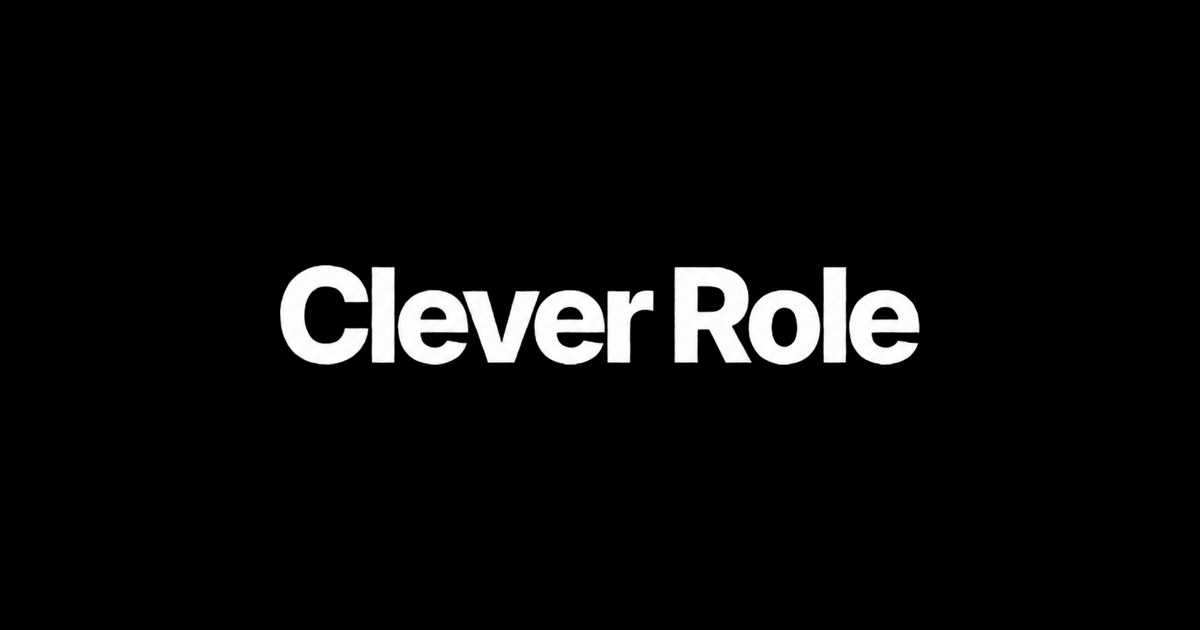
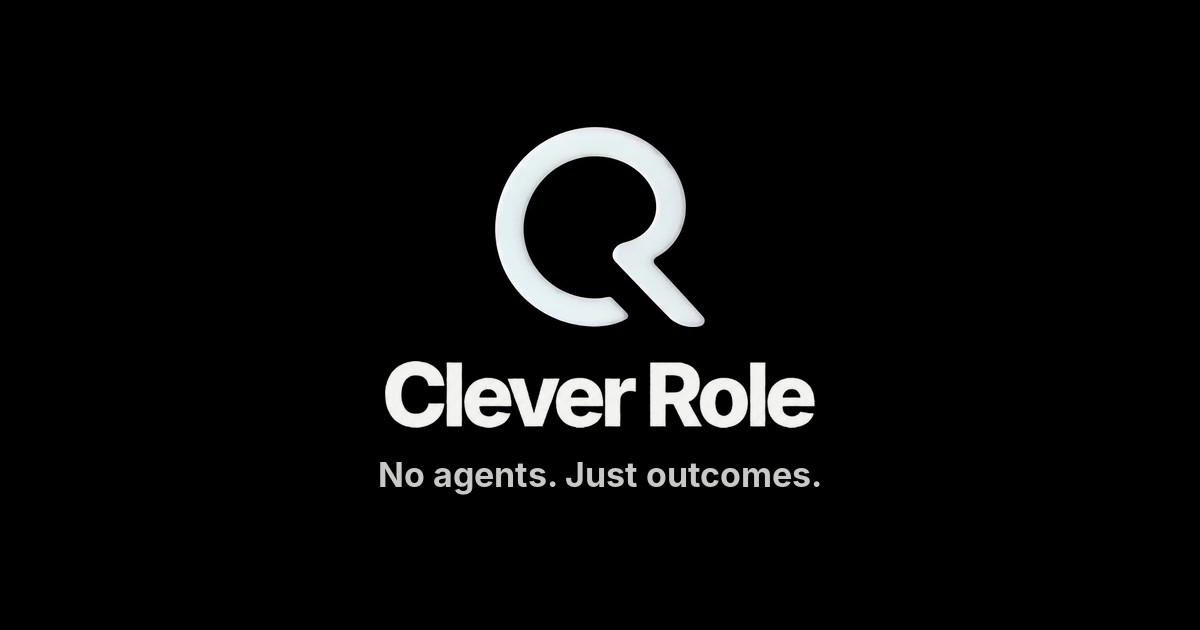
Still start, safer chat, short privacy/terms, clean link preview
- Symbol and background hold still for 2s on a fresh visit, then ease up
- Chat: topic first, polite language and private-detail checks, limits, bot trap
- Short website-only Privacy and Terms
- Title, description and new 1200x630 share image

Claude-Session: https://claude.ai/code/session_01WunY9FHpVajqV94qCjQSGL

Changed region(s): [[0.2158, 0.181, 0.7708, 0.6937], [0.3083, 0.7238, 0.6783, 0.7841]]

diff --git a/index.html b/index.html
@@ -4,12 +4,21 @@
 <meta charset="utf-8">
 <meta name="viewport" content="width=device-width, initial-scale=1, viewport-fit=cover">
 <title>Clever Role · No agents. Just outcomes.</title>
-<meta name="description" content="Clever Role Limited builds digital solutions for businesses. Coming soon.">
-<meta property="og:title" content="Clever Role">
-<meta property="og:description" content="No agents. Just outcomes. Coming soon.">
+<meta name="description" content="We build intelligent digital solutions for modern businesses. Coming soon.">
+<meta property="og:type" content="website">
+<meta property="og:site_name" content="Clever Role">
+<meta property="og:title" content="Clever Role · No agents. Just outcomes.">
+<meta property="og:description" content="We build intelligent digital solutions for modern businesses. Coming soon.">
 <meta property="og:image" content="https://cleverrole.com/og.jpg">
+<meta property="og:image:width" content="1200">
+<meta property="og:image:height" content="630">
+<meta property="og:image:alt" content="Clever Role logo with the line No agents. Just outcomes.">
 <meta property="og:url" content="https://cleverrole.com/">
 <meta name="twitter:card" content="summary_large_image">
+<meta name="twitter:title" content="Clever Role · No agents. Just outcomes.">
+<meta name="twitter:description" content="We build intelligent digital solutions for modern businesses. Coming soon.">
+<meta name="twitter:image" content="https://cleverrole.com/og.jpg">
+<link rel="apple-touch-icon" href="/og-icon.png">
 <meta name="theme-color" content="#000000">
 <link rel="canonical" href="https://cleverrole.com/">
 <link rel="icon" href="/favicon.ico">
@@ -102,6 +111,11 @@ footer a:hover,footer button:hover{color:var(--fg)}
 .chat-send:not(:disabled):hover{transform:scale(1.06)}
 .chat-foot{font-size:11px;color:var(--muted);text-align:center;padding:0 12px 10px}
 .chat-foot a{color:var(--muted)}
+.chips{display:flex;flex-wrap:wrap;gap:8px;align-self:flex-end;justify-content:flex-end;max-width:92%;animation:rise .3s ease}
+.chip{font:inherit;font-size:13.5px;font-weight:600;color:var(--fg);background:transparent;border:1px solid var(--line);border-radius:99px;padding:8px 14px;cursor:pointer;transition:background .2s,color .2s,border-color .2s}
+.chip:hover,.chip:focus-visible{background:var(--fg);color:var(--bg);border-color:var(--fg);outline:0}
+.chat-count{font-size:11px;color:var(--muted);text-align:right;padding:0 16px 4px}
+.chat-count.over{color:#e5484d}
 .hp{position:absolute;left:-9999px;width:1px;height:1px;opacity:0}
 @media (max-width:520px){.chat{right:0;left:0;bottom:0;width:100%;height:min(78dvh,560px);border-radius:22px 22px 0 0;border-bottom:0;padding-bottom:env(safe-area-inset-bottom,0px)}}
 @media (max-width:520px){.preview{position:fixed;z-index:2;left:max(16px,env(safe-area-inset-left,0px));top:calc(26px + env(safe-area-inset-top,0px));font-size:10px;font-weight:600;letter-spacing:.12em;text-transform:uppercase;color:var(--muted);border:1px dashed var(--line);border-radius:99px;padding:5px 10px}
@@ -139,7 +153,7 @@ footer a:hover,footer button:hover{color:var(--fg)}
 <section class="chat" id="chat" hidden role="dialog" aria-label="Chat with Clever Role">
   <div class="chat-head">
[1 lines of base64/hex data omitted]
-    <div class="chat-who"><b>Clever Role</b><span><i></i>We usually reply within a day</span></div>
+    <div class="chat-who"><b>Clever Role</b><span><i></i>A real person replies by email</span></div>
     <button class="close" type="button" id="closeChat" aria-label="Close chat">×</button>
   </div>
   <div class="chat-log" id="chatLog" aria-live="polite"></div>
@@ -148,7 +162,8 @@ footer a:hover,footer button:hover{color:var(--fg)}
     <textarea id="chatInput" rows="1" placeholder="Type your message" aria-label="Your message"></textarea>
     <button class="chat-send" id="chatSend" type="submit" aria-label="Send" disabled><svg width="16" height="16" viewBox="0 0 24 24" fill="none" stroke="currentColor" stroke-width="2.2" stroke-linecap="round" stroke-linejoin="round" aria-hidden="true"><path d="M12 19V5M5 12l7-7 7 7"/></svg></button>
   </form>
-  <div class="chat-foot">Or email <a href="mailto:hello@cleverrole.com">hello@cleverrole.com</a> · <a href="/privacy">Privacy</a></div>
+  <div class="chat-count" id="chatCount" hidden>0 / 1000</div>
+  <div class="chat-foot">Please don’t share passwords or card details. Or email <a href="mailto:hello@cleverrole.com">hello@cleverrole.com</a> · <a href="/privacy">Privacy</a></div>
 </section>
 
 <script>
@@ -166,39 +181,82 @@ footer a:hover,footer button:hover{color:var(--fg)}
   });
 
 
-  /* Chat: a short conversation collects the message, name and email, then sends it to hello@ without leaving the page. */
+  /* Chat: a short, polite conversation. No AI and no cost: the message goes to hello@ and a person replies by email.
+     Guard rails run in the browser: topic first, a length limit, a polite word check, no card numbers or passwords,
+     a hidden bot trap, one message per visit and three per day. */
   var SEND_URL='', SEND_KEY='';  /* set at go-live (form delivery service); empty = preview, nothing is sent */
+  var MAXLEN=1000, PER_DAY=3;
   var chat=document.getElementById('chat'), log=document.getElementById('chatLog'), cf=document.getElementById('chatForm'),
-      inp=document.getElementById('chatInput'), sendBtn=document.getElementById('chatSend'), step=0, started=false, data={};
-  function bubble(t,who){var d=document.createElement('div');d.className='b '+who;d.textContent=t;log.appendChild(d);log.scrollTop=log.scrollHeight;}
+      inp=document.getElementById('chatInput'), sendBtn=document.getElementById('chatSend'), count=document.getElementById('chatCount'),
+      step=-1, started=false, sent=false, openedAt=0, data={};
+  function bubble(t,who){var d=document.createElement('div');d.className='b '+who;d.textContent=t;log.appendChild(d);log.scrollTop=log.scrollHeight;return d;}
   function say(t,cb){var ty=document.createElement('div');ty.className='typing';ty.innerHTML='<i></i><i></i><i></i>';log.appendChild(ty);log.scrollTop=log.scrollHeight;
     setTimeout(function(){ty.remove();bubble(t,'us');if(cb)cb();},650+Math.min(900,t.length*12));}
   function ask(ph,type){inp.placeholder=ph;inp.setAttribute('inputmode',type==='email'?'email':'text');inp.disabled=false;inp.focus();}
-  function open(){chat.hidden=false;if(!started){started=true;say('Hi, thanks for stopping by.',function(){say('What would you like to tell us?',function(){ask('Type your message');});});}else inp.focus();}
+  function lock(ph){inp.disabled=true;sendBtn.disabled=true;inp.placeholder=ph;}
+  function today(){return new Date().toISOString().slice(0,10);}
+  function sentToday(){try{var s=JSON.parse(localStorage.getItem('cr-chat')||'{}');return s.d===today()?s.n:0;}catch(e){return 0;}}
+  function markSent(){try{localStorage.setItem('cr-chat',JSON.stringify({d:today(),n:sentToday()+1}));}catch(e){}}
+  var TOPICS=['Pricing','Partnership','Media','Something else'];
+  function chips(){var w=document.createElement('div');w.className='chips';
+    TOPICS.forEach(function(t){var b=document.createElement('button');b.type='button';b.className='chip';b.textContent=t;
+      b.addEventListener('click',function(){if(step!==0)return;w.remove();bubble(t,'them');data.topic=t;step=1;
+        say('Thanks. Tell us a little about what you need. Please don’t include passwords, card numbers or other private details.',function(){ask('Type your message');count.hidden=false;});});
+      w.appendChild(b);});
+    log.appendChild(w);log.scrollTop=log.scrollHeight;}
+  function open(){chat.hidden=false;if(started){if(!inp.disabled)inp.focus();return;}
+    started=true;openedAt=Date.now();lock('Choose a topic above');
+    if(sentToday()>=PER_DAY){say('Thanks for getting in touch again. You’ve already sent us a few messages today, so we’ll reply to those by email soon.',function(){lock('Message limit reached for today');});return;}
+    say('Hi, thanks for stopping by.',function(){
+      say('Messages here go straight to our team, and a real person replies by email, usually within a day. There’s no AI and no cost to you.',function(){
+        say('What’s it about?',function(){step=0;chips();});});});}
   function close(){chat.hidden=true;}
   document.getElementById('openForm').addEventListener('click',open);
   document.getElementById('closeChat').addEventListener('click',close);
   document.addEventListener('keydown',function(e){if(e.key==='Escape'&&!chat.hidden)close();});
-  inp.addEventListener('input',function(){sendBtn.disabled=!inp.value.trim();inp.style.height='auto';inp.style.height=Math.min(120,inp.scrollHeight)+'px';});
+  inp.addEventListener('input',function(){var n=inp.value.length;sendBtn.disabled=!inp.value.trim()||(step===1&&n>MAXLEN);
+    count.textContent=n+' / '+MAXLEN;count.classList.toggle('over',n>MAXLEN);
+    inp.style.height='auto';inp.style.height=Math.min(120,inp.scrollHeight)+'px';});
   inp.addEventListener('keydown',function(e){if(e.key==='Enter'&&!e.shiftKey){e.preventDefault();if(!sendBtn.disabled)cf.requestSubmit?cf.requestSubmit():cf.dispatchEvent(new Event('submit',{cancelable:true}));}});
+
+  // Polite-language check: common swear words, including simple disguises like f*ck or sh1t.
+  var RUDE=/\b(f+u+c+k+\w*|f+[\W_]*c+k+\w*|sh+i+t+\w*|bull?sh\w*|c+u+n+t+\w*|bastard\w*|bitch\w*|dick(head)?s?|cock(sucker)?s?|pricks?|wank\w*|twats?|arse(hole)?s?|ass(hole)?s?|motherf\w*|piss(ed)?|slut\w*|whores?|retard\w*|nigg\w*|fag+\w*|kys)\b/i;
+  function clean(t){return t.toLowerCase().replace(/[@4]/g,'a').replace(/[1!|]/g,'i').replace(/0/g,'o').replace(/3/g,'e').replace(/\$|5/g,'s').replace(/\*/g,'u');}
+  function rude(t){return RUDE.test(t)||RUDE.test(clean(t));}
+  // Card numbers (13 to 19 digits that pass the card check) and anything labelled as a password or PIN.
+  function hasCard(t){var m=t.match(/(?:\d[ -]?){13,19}/g)||[];return m.some(function(s){var d=s.replace(/\D/g,''),sum=0,alt=false;
+    if(d.length<13||d.length>19)return false;for(var i=d.length-1;i>=0;i--){var n=+d[i];if(alt){n*=2;if(n>9)n-=9;}sum+=n;alt=!alt;}return sum%10===0;});}
+  function hasSecret(t){return /\b(password|passwd|pwd|passcode|pin|cvv|cvc|security code)\b\s*(is|:|=|-)?\s*\S{3,}/i.test(t)||/\b(iban|bsb|account number|routing number|social security|ssn)\b/i.test(t);}
+  function gibberish(t){var letters=(t.match(/[a-z]/gi)||[]).length, words=t.trim().split(/\s+/).length;
+    return letters<10||words<3||/(.)\1{6,}/.test(t)||/https?:\/\/\S+.*https?:\/\/\S+.*https?:\/\//i.test(t);}
+  function retry(v,msg,ph){inp.value=v;inp.dispatchEvent(new Event('input'));say(msg,function(){ask(ph);});}
+
   function deliver(){
-    if(document.getElementById('hpField').value)return Promise.resolve(true);
-    if(!SEND_URL){location.href='mailto:hello@cleverrole.com?subject='+encodeURIComponent('Hello from '+data.name)+'&body='+encodeURIComponent(data.message+'\n\n'+data.name+' <'+data.email+'>');return Promise.resolve('mail');}
+    if(document.getElementById('hpField').value||Date.now()-openedAt<4000)return Promise.resolve(true);  // bot trap: hidden field filled, or far too fast for a person
+    if(!SEND_URL){location.href='mailto:hello@cleverrole.com?subject='+encodeURIComponent(data.topic+' from '+data.name)+'&body='+encodeURIComponent(data.message+'\n\n'+data.name+' <'+data.email+'>');return Promise.resolve('mail');}
     return fetch(SEND_URL,{method:'POST',headers:{'Content-Type':'application/json',Accept:'application/json'},
-      body:JSON.stringify({access_key:SEND_KEY,subject:'New message from cleverrole.com: '+data.name,from_name:'cleverrole.com',name:data.name,email:data.email,replyto:data.email,message:data.message})})
+      body:JSON.stringify({access_key:SEND_KEY,subject:'cleverrole.com: '+data.topic+' from '+data.name,from_name:'cleverrole.com',name:data.name,email:data.email,replyto:data.email,topic:data.topic,message:data.message})})
       .then(function(r){return r.ok;}).catch(function(){return false;});
   }
   cf.addEventListener('submit',function(e){
-    e.preventDefault(); var v=inp.value.trim(); if(!v)return;
-    if(step===2&&!/^[^@\s]+@[^@\s]+\.[^@\s]+$/.test(v)){bubble(v,'them');inp.value='';sendBtn.disabled=true;say('That email doesn’t look quite right. Could you check it?',function(){ask('you@company.com','email');});return;}
-    bubble(v,'them');inp.value='';inp.style.height='auto';sendBtn.disabled=true;inp.disabled=true;
-    if(step===0){data.message=v;step=1;say('Thanks. Who are we talking to?',function(){ask('Your name');});}
-    else if(step===1){data.name=v;step=2;say('Nice to meet you, '+v.split(' ')[0]+'. What’s the best email to reply to?',function(){ask('you@company.com','email');});}
-    else if(step===2){data.email=v;step=3;say('Sending your message…',function(){deliver().then(function(ok){
-      if(ok==='mail'){say('Your email app should now open with your message ready to send. If it doesn\u2019t, email us at hello@cleverrole.com.');}
-      else if(ok){say(SEND_URL?'Done. Your message is with us and we’ll reply to '+data.email+' soon.':'Done.',function(){inp.placeholder='Message sent';});}
-      else{say('Sorry, that didn’t go through. Please email us at hello@cleverrole.com.');}
-    });});}
+    e.preventDefault(); var v=inp.value.trim(); if(!v||sent||step<1)return;
+    inp.value='';inp.style.height='auto';sendBtn.disabled=true;inp.disabled=true;
+    if(rude(v)){retry(v,'We’d love to help, but please keep it friendly. Could you reword your message without the strong language?','Reword your message');return;}
+    if(hasCard(v)||hasSecret(v)){retry(v,'For your safety, please don’t share card numbers, passwords or other private details here. Could you remove that part and send it again?','Remove the private details');return;}
+    if(step===1){
+      if(v.length>MAXLEN){retry(v,'That’s a little long for a first message. Could you keep it under '+MAXLEN+' characters? We can go into detail by email.','Shorten your message');return;}
+      if(gibberish(v)){retry(v,'Could you add a little more detail about what you’re looking for? It helps us send the right reply.','Add a bit more detail');return;}
+      bubble(v,'them');data.message=v;step=2;count.hidden=true;say('Thanks. Who are we talking to?',function(){ask('Your name');});}
+    else if(step===2){
+      if(v.length>80||!/[a-z]/i.test(v)){retry(v,'Could you just give us your name, please?','Your name');return;}
+      bubble(v,'them');data.name=v;step=3;say('Nice to meet you, '+v.split(' ')[0]+'. What’s the best email to reply to?',function(){ask('you@company.com','email');});}
+    else if(step===3){
+      if(v.length>120||!/^[^@\s]+@[^@\s]+\.[^@\s]{2,}$/.test(v)){retry(v,'That email doesn’t look quite right. Could you check it?','you@company.com');return;}
+      bubble(v,'them');data.email=v;step=4;sent=true;say('Sending your message…',function(){deliver().then(function(ok){
+        if(ok==='mail'){markSent();say('Your email app should now open with your message ready to send. If it doesn\u2019t, email us at hello@cleverrole.com.',function(){lock('Message ready in your email app');});}
+      else if(ok){markSent();say(SEND_URL?'Done. Your message is with us and we’ll reply to '+data.email+' soon.':'Done.',function(){lock('Message sent');});}
+        else{sent=false;say('Sorry, that didn’t go through. Please email us at hello@cleverrole.com.');}
+      });});}
   });
 })();
 
@@ -328,7 +386,7 @@ footer a:hover,footer button:hover{color:var(--fg)}
   document.addEventListener('visibilitychange',function(){run=!document.hidden;prev=performance.now();if(run)requestAnimationFrame(frame);});
   function frame(now){
     if(!run)return;
-    var dt=Math.min(0.05,(now-prev)/1000);prev=now; mx+=(tx-mx)*0.04; my+=(ty-my)*0.04;
+    var dt=Math.min(0.05,(now-prev)/1000)*(window.crWake==null?1:window.crWake);prev=now; mx+=(tx-mx)*0.04; my+=(ty-my)*0.04;
     var spin=window.crSpin||1;              // 1 = normal pace; bigger when the symbol is flicked; negative = reversed
     T+=dt*(still?0:1);
     x.clearRect(0,0,W,H);
@@ -356,25 +414,27 @@ footer a:hover,footer button:hover{color:var(--fg)}
     ox.putImageData(d,0,0);return o;}catch(e){return im;}}
   for(var s=0;s<4;s++){(function(s){var im=new Image();im.onload=function(){sheets[s]=solid(im);ready[s]=true;};im.src='spin'+s+'.jpg';sheets[s]=im;})(s);}
   var still=window.matchMedia&&matchMedia('(prefers-reduced-motion: reduce)').matches;
-  var pos=0, vel=still?0:BASE, dir=1, drag=false, lastX=0, lastT=0, dragV=0, prev=performance.now(), run=true, drawn=-1;
+  var HOLD=2000, hold=performance.now()+HOLD, wake=still?1:0;  // a fresh visit starts still, then eases up to the normal pace
+  var pos=0, vel=0, dir=1, drag=false, lastX=0, lastT=0, dragV=0, prev=performance.now(), run=true, drawn=-1;
   function fit(){var d=Math.min(window.devicePixelRatio||1,2), w=Math.round(c.clientWidth*d)||CELL; if(c.width!==w){c.width=c.height=w;drawn=-1;}}
   addEventListener('resize',fit);
   function pxToFrames(){return N/((c.clientWidth||300)*1.4);}
-  c.addEventListener('pointerdown',function(e){var hn=document.getElementById('spinHint');if(hn)hn.classList.add('used');drag=true;c.classList.add('drag');lastX=e.clientX;lastT=e.timeStamp;dragV=0;try{c.setPointerCapture(e.pointerId);}catch(_){}});
+  c.addEventListener('pointerdown',function(e){var hn=document.getElementById('spinHint');if(hn)hn.classList.add('used');drag=true;hold=0;wake=1;c.classList.add('drag');lastX=e.clientX;lastT=e.timeStamp;dragV=0;try{c.setPointerCapture(e.pointerId);}catch(_){}});
   c.addEventListener('pointermove',function(e){if(!drag)return;var dx=e.clientX-lastX, dt=Math.max(1,e.timeStamp-lastT)/1000;
     var df=dx*pxToFrames(); pos+=df; dragV=dragV*0.6+(df/dt)*0.4; lastX=e.clientX;lastT=e.timeStamp;});
   function end(){if(!drag)return;drag=false;c.classList.remove('drag');
     vel=Math.max(-720,Math.min(720,dragV)); if(Math.abs(vel)>BASE*0.25)dir=vel>0?1:-1;}
   c.addEventListener('pointerup',end);c.addEventListener('pointercancel',end);c.addEventListener('lostpointercapture',end);
   document.addEventListener('visibilitychange',function(){run=!document.hidden;prev=performance.now();if(run)requestAnimationFrame(tick);});
-  // Every fresh visit (including coming back with the browser's Back button) starts at the normal pace, in the normal direction.
-  addEventListener('pageshow',function(e){if(e.persisted){dir=1;vel=still?0:BASE;drag=false;dragV=0;window.crSpin=1;}});
+  // Every fresh visit (including coming back with the browser's Back button) starts still for 2 seconds, then eases up to the normal pace, in the normal direction.
+  addEventListener('pageshow',function(e){if(e.persisted){dir=1;vel=0;hold=performance.now()+HOLD;wake=still?1:0;drag=false;dragV=0;window.crSpin=0;window.crWake=wake;}});
   function tick(now){
     if(!run)return;
     var dt=Math.min(0.05,(now-prev)/1000); prev=now;
-    if(!drag){var target=still?0:dir*BASE; vel+=(target-vel)*(1-Math.exp(-dt/0.8)); pos+=vel*dt;}
+    if(!drag){var target=(still||now<hold)?0:dir*BASE; vel+=(target-vel)*(1-Math.exp(-dt/0.8)); pos+=vel*dt;}
     else if(now-lastT>80){dragV*=0.8;}
-    window.crSpin=(drag?dragV:vel)/BASE;
+    if(!drag&&now>=hold)wake=Math.max(wake,Math.min(1,Math.abs(vel)/BASE*1.05));
+    window.crSpin=(drag?dragV:vel)/BASE; window.crWake=wake;
     var f=((Math.round(pos)%N)+N)%N, s=Math.floor(f/PER);
     if(!ready[s]){for(var k=0;k<4;k++)if(ready[k]){s=k;f=k*PER;break;}}
     if(ready[s]&&f!==drawn){fit();var i=f-s*PER;x.clearRect(0,0,c.width,c.height);

diff --git a/privacy/index.html b/privacy/index.html
@@ -4,7 +4,7 @@
 <meta charset="utf-8">
 <meta name="viewport" content="width=device-width, initial-scale=1, viewport-fit=cover">
 <title>Privacy Policy · Clever Role</title>
-<meta name="description" content="Privacy Policy for Clever Role Limited.">
+<meta name="description" content="Privacy Policy for the Clever Role Limited website.">
 <link rel="icon" href="/favicon.ico">
 <style>
 @font-face{font-family:'Inter Variable';font-style:normal;font-display:swap;font-weight:100 900;src:url(/inter.woff2) format('woff2-variations')}
@@ -35,19 +35,14 @@ footer a{color:var(--muted);text-decoration:none} footer a:hover{color:var(--fg)
 <header><a href="/" aria-label="Clever Role home"><img src="/wordmark.png" alt="Clever Role"></a><button class="theme" id="themeToggle" type="button" aria-label="Switch theme"><span></span></button></header>
 <p class="eyebrow">Legal</p>
 <h1>Privacy Policy</h1>
-<p class="dates">Last updated: 18 October 2026 · Effective: 1 January 2026</p>
-<p class="intro">Clever Role Limited (&quot;Clever Role&quot;, &quot;we&quot;, &quot;us&quot; or &quot;our&quot;) is committed to protecting your personal information. This Privacy Policy explains what data we collect, how we use it, and what rights you have.</p>
-<section><h2>1. Information we collect</h2><p>We collect information you provide directly (such as name, email address and billing details when you create an account or make a purchase), information generated by your use of our services (such as usage logs, Role activity records and API call metadata), and technical information (such as browser type, IP address and device identifiers). We do not sell your personal data.</p></section>
-<section><h2>2. How we use your information</h2><p>We use your information to provide and improve the Clever Role platform, process payments, send service communications, maintain security and compliance, and generate anonymised analytics to improve our products. We do not use your data to train third-party AI models without your explicit consent.</p></section>
-<section><h2>3. Data sharing</h2><p>We share data with trusted third-party service providers (including AWS for hosting, Stripe for payment processing, Anthropic for AI model access, Postmark for service emails, and Google or Microsoft when a customer connects their own account) under strict data processing agreements. We do not sell or rent personal data to marketers or data brokers. We may disclose data where required by law.</p></section>
-<section><h2>4. Data retention</h2><p>We retain your account data for as long as your account is active and for a period afterwards as required by law or legitimate business purposes. Role activity logs are retained for 90 days by default. You may request deletion of your data at any time by contacting us.</p></section>
-<section><h2>5. Security</h2><p>We use industry-standard security measures including TLS encryption in transit, AES-256 encryption at rest, access controls, and regular security reviews. Sensitive credentials (API keys, OAuth tokens) are stored encrypted and are never logged in plaintext. See our Security page for more detail.</p></section>
-<section><h2>6. Your rights</h2><p>Depending on your location, you may have rights to access, correct, delete, or export your personal data, and to object to or restrict certain processing. To exercise these rights, contact us at privacy@cleverrole.com. We will respond within 30 days.</p></section>
-<section><h2>7. Cookies</h2><p>We use essential cookies required for the platform to function (authentication, session management) and optional analytics cookies to understand how our services are used. You can manage cookie preferences in your browser settings. We do not use advertising cookies.</p></section>
-<section><h2>8. Changes to this policy</h2><p>We may update this Privacy Policy from time to time. When we do, we will revise the date at the top of this page and, for material changes, notify you via email or an in-app notice. Your continued use of Clever Role after changes constitutes acceptance of the updated policy.</p></section>
-<section><h2>9. Google Workspace integration</h2><p>Clever Role offers an optional Google Workspace connection so that a customer&#x27;s Roles can work in the customer&#x27;s own Google account. Access is granted only through Google&#x27;s own consent screen, applies only to the account the customer connects, and can be revoked at any time. Clever Role requests these Google permissions: Gmail read access, so Roles such as Business Monitor, Support Desk and Customer Care can read and summarise incoming email; Gmail draft access, so reply drafts can be prepared for the customer to review; Gmail send access, so emails the customer has approved (or set to send automatically) go out from the customer&#x27;s own address; Google Calendar event access, so Meeting Booking can create, move and cancel meetings and avoid double-booking; and access only to Google Drive files that Clever Role itself creates, such as saved reports. Clever Role&#x27;s use and transfer of information received from Google APIs adheres to the Google API Services User Data Policy (policies.google.com/terms/api-services-user-data-policy), including the Limited Use requirements. We use Google user data only to provide the features the customer has enabled. We do not sell it, use it for advertising, or transfer it to others except as needed to provide those features, to comply with law, or with the customer&#x27;s consent. Humans at Clever Role do not read it unless the customer asks us to for support, it is needed for security or legal reasons, or it has been aggregated and anonymised. Clever Role does not use Google Workspace data to develop, improve or train generalised AI or machine-learning models. OAuth tokens are stored encrypted and are never given to AI models. Customers can disconnect Google at any time from the Connections page; disconnecting revokes our access with Google and deletes the stored tokens. To ask us to delete any other stored Google data, contact privacy@cleverrole.com.</p></section>
-<section><h2>10. Microsoft 365 integration</h2><p>Clever Role offers an optional Microsoft 365 connection on the same terms. Access is granted only through Microsoft&#x27;s own consent screen and applies only to the account the customer connects. Clever Role requests these Microsoft permissions: read and draft email (Mail.ReadWrite), so Roles can read and summarise incoming email and prepare reply drafts; send email (Mail.Send), so approved emails go out from the customer&#x27;s own address; calendar access (Calendars.ReadWrite) for Meeting Booking; access to the customer&#x27;s own OneDrive files (Files.ReadWrite) for saved reports; and basic profile and offline access so the connection shows the right account and stays connected. We use Microsoft data only to provide the features the customer has enabled, never sell it or use it for advertising, and do not use it to train generalised AI models. Customers can disconnect Microsoft 365 at any time from the Connections page, which deletes the stored tokens; they can also remove Clever Role from their Microsoft account&#x27;s app permissions.</p></section>
-<section><h2>11. Contact</h2><p>For privacy-related questions or requests, contact us at privacy@cleverrole.com or write to us at our registered address. For urgent security concerns, see our Security page.</p></section>
+<p class="dates">Last updated: 18 October 2026</p>
+<p class="intro">This website is run by Clever Role Limited, a company registered in New Zealand (company number 9429232).</p>
+<section><h2>What we collect</h2><p>This site has no accounts and no sign-in. If you contact us through the website chat or by email, we receive your name, your email address and your message. We use them only to reply to you.</p></section>
+<section><h2>Cookies and tracking</h2><p>We use no advertising or analytics cookies, and we do not track you across other websites. Your browser stores your display choices (light or dark, background), and a small counter that limits how many chat messages can be sent each day. That information stays on your device.</p></section>
+<section><h2>Hosting</h2><p>Our hosting provider may keep standard technical logs, such as IP addresses, to keep the site secure and working.</p></section>
+<section><h2>Sharing</h2><p>We do not sell or rent your information, and we only share it where the law requires it.</p></section>
+<section><h2>Your rights</h2><p>You can ask to see, correct or delete what you have sent us. Email <a href="mailto:hello@cleverrole.com">hello@cleverrole.com</a>.</p></section>
+<section><h2>Changes</h2><p>If this policy changes, we will update the date at the top of this page.</p></section>
 <footer><a href="/">Home</a><a href="/privacy">Privacy</a><a href="/terms">Terms</a><span style="color:var(--muted)">© 2026 Clever Role Limited</span></footer>
 </div>
 <script>

diff --git a/terms/index.html b/terms/index.html
@@ -3,8 +3,8 @@
 <head>
 <meta charset="utf-8">
 <meta name="viewport" content="width=device-width, initial-scale=1, viewport-fit=cover">
-<title>Terms of Service · Clever Role</title>
-<meta name="description" content="Terms of Service for Clever Role Limited.">
+<title>Terms of Use · Clever Role</title>
+<meta name="description" content="Terms of use for the Clever Role Limited website.">
 <link rel="icon" href="/favicon.ico">
 <style>
 @font-face{font-family:'Inter Variable';font-style:normal;font-display:swap;font-weight:100 900;src:url(/inter.woff2) format('woff2-variations')}
@@ -34,20 +34,14 @@ footer a{color:var(--muted);text-decoration:none} footer a:hover{color:var(--fg)
 <div class="wrap">
 <header><a href="/" aria-label="Clever Role home"><img src="/wordmark.png" alt="Clever Role"></a><button class="theme" id="themeToggle" type="button" aria-label="Switch theme"><span></span></button></header>
 <p class="eyebrow">Legal</p>
-<h1>Terms of Service</h1>
-<p class="dates">Last updated: 9 June 2026 · Effective: 1 January 2026</p>
-<p class="intro">These Terms of Service govern your use of the Clever Role platform. Please read them carefully before using our services.</p>
-<section><h2>1. Agreement</h2><p>By accessing or using the Clever Role platform (&quot;Service&quot;), you agree to be bound by these Terms of Service. If you are using the Service on behalf of a company or organisation, you represent that you have authority to bind that entity to these Terms.</p></section>
-<section><h2>2. Use of the Service</h2><p>You may use Clever Role for lawful business purposes only. You must not use the Service to violate any applicable law, infringe third-party rights, transmit harmful content, attempt to gain unauthorised access, or reverse-engineer the platform. We reserve the right to suspend accounts that violate these terms.</p></section>
-<section><h2>3. Accounts and security</h2><p>You are responsible for maintaining the confidentiality of your account credentials and for all activity that occurs under your account. Notify us immediately at security@cleverrole.com if you suspect unauthorised access. We are not liable for losses resulting from compromised credentials where you have not notified us.</p></section>
-<section><h2>4. Subscriptions and billing</h2><p>Subscriptions are billed in advance on a monthly or annual basis. All fees are exclusive of taxes unless stated otherwise. We reserve the right to change pricing with 30 days notice. Refunds are not provided for partial subscription periods unless required by applicable law. Overdue accounts may be suspended.</p></section>
-<section><h2>5. Intellectual property</h2><p>Clever Role retains all intellectual property rights in the platform, including its software, design, data models and Roles. You retain ownership of data you upload or connect to the platform. By using the Service you grant us a limited licence to process your data solely for the purpose of delivering the Service.</p></section>
-<section><h2>6. Third-party integrations (Connected Services)</h2><p>Clever Role supports optional connections to third-party services including Google Workspace (&quot;Connected Services&quot;). By connecting a third-party service you authorise Clever Role to access that service on your behalf using OAuth credentials or API keys. You are responsible for ensuring you have the authority to grant such access and that doing so complies with the applicable service&#x27;s terms and policies. Clever Role accesses Connected Services only to the extent necessary to provide the features you have enabled. You may disconnect any Connected Service at any time via Roles → Settings → Connected Services. Access tokens associated with Connected Services are stored securely and revoked upon disconnection. Our use of Google user data obtained through Connected Services is limited to delivering your selected Clever Role services, adheres to the Google API Services User Data Policy, and is subject to the restrictions described in our Privacy Policy.</p></section>
-<section><h2>7. Limitation of liability</h2><p>To the maximum extent permitted by law, Clever Role&#x27;s total liability to you for any claim arising out of or relating to these Terms or the Service shall not exceed the fees paid by you in the 12 months preceding the claim. We exclude all liability for indirect, consequential or incidental losses.</p></section>
-<section><h2>8. Warranties</h2><p>The Service is provided &quot;as is&quot; without warranties of any kind, express or implied, except as required by applicable law. We do not warrant that the Service will be uninterrupted, error-free or meet your specific requirements. We will use commercially reasonable efforts to maintain 99.9% uptime, but do not guarantee it.</p></section>
-<section><h2>9. Termination</h2><p>Either party may terminate the agreement at any time. On termination, your access to the Service will cease. We will retain your data for 30 days following termination, after which it may be deleted. Sections relating to intellectual property, liability and governing law survive termination.</p></section>
-<section><h2>10. Governing law</h2><p>These Terms are governed by the laws of New Zealand. Any disputes shall be submitted to the exclusive jurisdiction of the courts of New Zealand. We reserve the right to seek injunctive relief in any jurisdiction.</p></section>
-<section><h2>11. Contact</h2><p>For questions about these Terms, contact us at legal@cleverrole.com.</p></section>
+<h1>Terms of Use</h1>
+<p class="dates">Last updated: 18 October 2026</p>
+<p class="intro">This website is provided by Clever Role Limited (New Zealand) for general information. It is provided &quot;as is&quot;, and we may change or remove it at any time.</p>
+<section><h2>Using the contact chat</h2><p>Please use the contact chat respectfully. Don’t send unlawful, abusive or spam messages, and don’t send passwords, payment details or other sensitive information.</p></section>
+<section><h2>Our content</h2><p>All content, names and logos on this site belong to Clever Role Limited. Please don’t copy or reuse them without our permission.</p></section>
+<section><h2>Liability</h2><p>To the extent the law allows, we are not liable for any loss arising from your use of this website.</p></section>
+<section><h2>Governing law</h2><p>These terms are governed by the laws of New Zealand.</p></section>
+<section><h2>Contact</h2><p><a href="mailto:hello@cleverrole.com">hello@cleverrole.com</a></p></section>
 <footer><a href="/">Home</a><a href="/privacy">Privacy</a><a href="/terms">Terms</a><span style="color:var(--muted)">© 2026 Clever Role Limited</span></footer>
 </div>
 <script>
